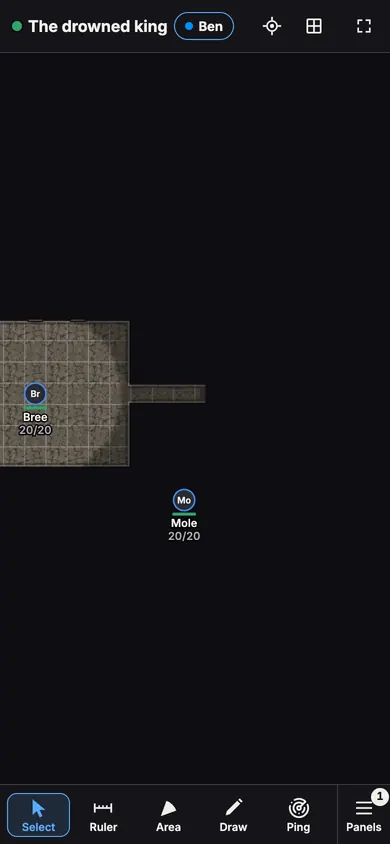
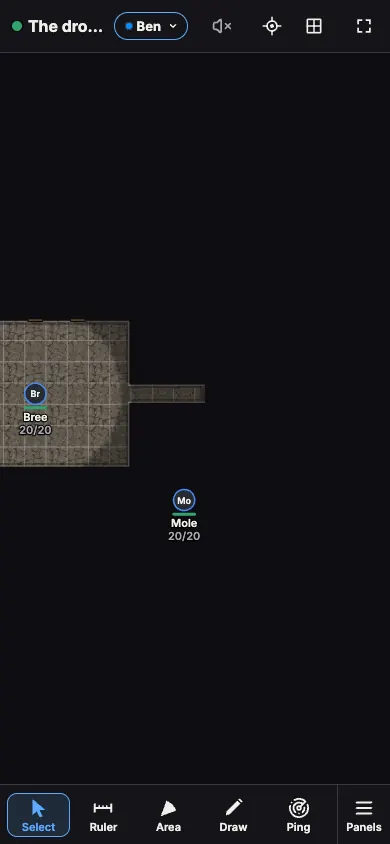
docs(guide): retake the forget question and player discovery pictures from a replay of their own

diff --git a/scripts/guide-discovery.ts b/scripts/guide-discovery.ts
@@ -1,0 +1,178 @@
+/**
+ * The DM guide's pictures of what players' maps hold (docs/dm-guide.md,
+ * "What players' maps hold", docs/design/design-v1-map-discovery.md),
+ * taken from the real server on the production build so they always show
+ * the app as it is:
+ *
+ * - discovery-player.webp: Ben's phone in the Sunken halls, with Bree's
+ *   torch lighting the hall and the start of the corridor, which runs on into
+ *   the dark with no wall across it, and a treasury his map does not hold.
+ * - forget-question.webp: the DM's question before clearing the Great
+ *   cavern's build, which the party has seen and left, would run past what
+ *   their map can keep.
+ *
+ * The room is e2e/mapdiscovery.e2e.ts's, cut down to what the two pictures
+ * need. It needs `pnpm build` first and a Postgres in DATABASE_URL. It makes a
+ * room, writes the pictures to docs/dm-guide/ at 1280 x 800 for the computer
+ * and 390 x 844 for the phone, as the guide's other pictures are, and
+ * deletes the room:
+ *
+ *   DATABASE_URL=postgres://... GUIDE_PORT=3196 node scripts/guide-discovery.ts
+ *
+ * GUIDE_COPY_DIR, when set, also gets each picture as guide-<name>.png, which
+ * it never overwrites, for looking at the pictures at full quality.
+ */
+import { mkdirSync, mkdtempSync, rmSync, writeFileSync } from "node:fs";
+import { tmpdir } from "node:os";
+import path from "node:path";
+import { chromium, type BrowserContext, type Page } from "playwright-core";
+import sharp from "sharp";
+import { knownAt } from "../shared/discoveryTestutil.ts";
+import { CHUNK_CELLS, type EdgeFeature, type PlayerChunk, type RoomState } from "../shared/model.ts";
+import { isCellFullyFogged } from "../shared/rules/fog.ts";
+import { uuidv7 } from "../shared/ids.ts";
+import { OpSocket, openSideTab, pagePoint, pickTool, ROOT, SocketWatch, sleep, startServer, waitFor } from "../e2e/harness.ts";
+
+const PORT = Number(process.env.GUIDE_PORT ?? 3196);
+const DATABASE_URL = process.env.DATABASE_URL ?? "postgres://raccoon:raccoon@localhost:5434/raccoon";
+const OUT = path.join(ROOT, "docs", "dm-guide");
+const DESK = { width: 1280, height: 800 };
+const PHONE = { width: 390, height: 844 };
+const COPY_DIR = process.env.GUIDE_COPY_DIR;
+
+const HALLS = {
+  bounds: { w: 24, h: 12 },
+  hall: { x: 0, y: 1, w: 7, h: 7 },
+  corridor: { x: 7, y: 4, w: 17, h: 1 },
+  treasury: { x: 14, y: 7, w: 7, h: 4 },
+  breeAt: { x: 2, y: 4 },
+  moleAt: { x: 9, y: 9 },
+};
+const CAVERN = { bounds: { w: 80, h: 64 }, breeAt: { x: 40, y: 32 } };
+const TORCH = { bright: 20, dim: 20 };
+const roomName = "The drowned king";
+
+function actor() {
+  return { hp: { cur: 20, max: 20, temp: 0 }, life: "alive", ac: 14, speeds: { walk: 30 }, initBonus: 0, passivePerception: 10, senses: "", effects: [], deathSaves: { ok: 0, fail: 0 }, notes: "", dmNotes: "" };
+}
+
+/** The page as the guide shows it, at the quality its other pictures use. */
+async function picture(page: Page, name: string): Promise<void> {
+  await page.waitForTimeout(1000);
+  const png = await page.screenshot();
+  const info = await sharp(png).webp({ quality: 78, effort: 6 }).toFile(path.join(OUT, `${name}.webp`));
+  console.log(`${name}.webp ${info.width} x ${info.height}, ${Math.round(info.size / 1024)} KB`);
+  if (COPY_DIR !== undefined) {
+    mkdirSync(COPY_DIR, { recursive: true });
+    writeFileSync(path.join(COPY_DIR, `guide-${name}.png`), png, { flag: "wx" });
+  }
+}
+
+function chunkOf(state: RoomState | null, sceneId: string, x: number, y: number): PlayerChunk | undefined {
+  return state?.buildChunks[`${sceneId}:${Math.floor(x / CHUNK_CELLS)},${Math.floor(y / CHUNK_CELLS)}`] as PlayerChunk | undefined;
+}
+
+const work = mkdtempSync(path.join(tmpdir(), "raccoon-guide-discovery-"));
+const server = await startServer({ port: PORT, assetDir: path.join(work, "assets"), databaseUrl: DATABASE_URL });
+const browser = await chromium.launch({ channel: "chrome", headless: true });
+let roomId = "";
+let ops: OpSocket | null = null;
+const dmContext: BrowserContext = await browser.newContext({ viewport: DESK });
+const benContext: BrowserContext = await browser.newContext({ viewport: PHONE, deviceScaleFactor: 1, isMobile: true, hasTouch: true });
+try {
+  const origin = server.origin;
+  const dm = await dmContext.newPage();
+  const ben = await benContext.newPage();
+  const dmSocket = new SocketWatch("dm");
+  const benSocket = new SocketWatch("ben");
+  await dmSocket.attach(dmContext, dm);
+  await benSocket.attach(benContext, ben);
+  await dm.goto(`${origin}/`);
+  await dm.getByLabel("Room name").fill(roomName);
+  await dm.getByLabel("Your name").fill("Dana the DM");
+  const password = await dm.getByLabel("Player password").inputValue();
+  await dm.getByRole("button", { name: "Create room" }).click();
+  await dm.getByRole("heading", { name: "Save your DM link" }).waitFor();
+  const link = (await dm.locator("code").first().textContent()) ?? "";
+  roomId = /\/r\/([0-9A-Z]{4}-[0-9A-Z]{4})#dm=/.exec(link)![1]!.replace("-", "");
+  await dm.getByLabel("I saved my DM link").check();
+  await dm.getByRole("button", { name: "Continue to the room" }).click();
+  await waitFor("the DM's snapshot", () => dmSocket.state);
+  const halls = dmSocket.state!.meta.playerSceneId!;
+  const cavern = uuidv7();
+  const cookie = (await dmContext.cookies(origin)).map((c) => `${c.name}=${c.value}`).join("; ");
+  ops = await OpSocket.open({ origin, roomId, cookie });
+
+  // The Sunken halls: a hall, a corridor east into the dark, and a treasury south of it that no light of the party's reaches.
+  await ops.send({ t: "scene.update", sceneId: halls, patch: { name: "Sunken halls", bounds: HALLS.bounds, fogEnabled: true, autoWalls: "all", blockMovement: true, vision: { on: true, light: "dark" } } });
+  await ops.send({ t: "build.rect", sceneId: halls, terrain: "stone", ...HALLS.hall });
+  await ops.send({ t: "build.rect", sceneId: halls, terrain: "stone", ...HALLS.corridor });
+  await ops.send({ t: "build.rect", sceneId: halls, terrain: "wood", ...HALLS.treasury });
+  const door: EdgeFeature = { kind: "door", state: "closed", secret: false, discovered: false };
+  await ops.send({ t: "build.edge", sceneId: halls, edges: ["2,1,n", "4,1,n"].map((key) => ({ key, feature: door })) });
+  // The Great cavern: bright and floored in stone wall to wall, so clearing it out of the party's sight runs past what their map keeps.
+  await ops.send({ t: "scene.create", scene: { id: cavern, name: "Great cavern", bounds: CAVERN.bounds, fogEnabled: true, autoWalls: "all", blockMovement: true, vision: { on: true, light: "bright" } } });
+  for (let y = 0; y < CAVERN.bounds.h; y += 16) await ops.send({ t: "build.rect", sceneId: cavern, terrain: "stone", x: 0, y, w: CAVERN.bounds.w, h: 16 });
+
+  const headers = { Origin: origin, "content-type": "application/json" };
+  const joined = await benContext.request.post(`${origin}/api/rooms/${roomId}/join`, { headers, data: { password } });
+  const { ticket } = (await joined.json()) as { ticket: string };
+  const done = await benContext.request.post(`${origin}/api/rooms/${roomId}/join/complete`, { headers, data: { ticket, name: "Ben", color: "#0090ff" } });
+  const benId = ((await done.json()) as { member: { id: string } }).member.id;
+  const pc = (id: string, sceneId: string, name: string, at: { x: number; y: number }, dark = false) => ({
+    t: "token.create" as const,
+    token: { id, sceneId, kind: "pc" as const, disposition: "ally" as const, name, size: "medium" as const, ...at, visibility: "all" as const, ownerIds: [benId], actor: { inline: actor() }, ...(dark ? {} : { light: TORCH }) },
+  });
+  const breeHalls = uuidv7();
+  const breeCavern = uuidv7();
+  await ops.send(pc(breeHalls, halls, "Bree", HALLS.breeAt));
+  await ops.send(pc(uuidv7(), halls, "Mole", HALLS.moleAt, true));
+  await ops.send(pc(breeCavern, cavern, "Bree", CAVERN.breeAt));
+  await ben.goto(`${origin}/r/${roomId}`);
+  await ben.getByRole("status", { name: "Connected" }).first().waitFor();
+  await waitFor("Ben's snapshot", () => benSocket.state);
+  await ben.locator(".konvajs-content").first().waitFor();
+
+  // Shot 1: Ben's phone in the halls, closer in than the whole scene, as the e2e file takes it.
+  await waitFor("the hall and its corridor on Ben's map", () => (knownAt(chunkOf(benSocket.state, halls, 8, 4), 8, 4) && chunkOf(benSocket.state, halls, 2, 4)?.cells["2,4"] === "stone" ? true : null));
+  const middle = await pagePoint(ben, HALLS.bounds, { x: 6, y: 5 });
+  await ben.mouse.move(middle.x, middle.y);
+  await ben.mouse.wheel(0, -400);
+  await ben.waitForTimeout(600);
+  await picture(ben, "discovery-player");
+  await ben.mouse.wheel(0, 400);
+  await ben.waitForTimeout(400);
+
+  // Shot 2: the party sees the whole cavern and leaves it, and the DM's Clear build there asks first.
+  const playersTo = async (sceneId: string) => {
+    await ops!.send({ t: "room.setPlayerScene", sceneId });
+    await waitFor("the players on the scene", () => (benSocket.state?.meta.playerSceneId === sceneId ? true : null));
+  };
+  await playersTo(cavern);
+  await waitFor("the cavern explored on Ben's map", () => (benSocket.state && !isCellFullyFogged(benSocket.state.fogTiles, cavern, { x: CAVERN.bounds.w - 1, y: CAVERN.bounds.h - 1 }) ? true : null));
+  await playersTo(halls);
+  await openSideTab(dm, "Scenes");
+  await dm.getByRole("button", { name: /^Great cavern/ }).click();
+  await waitFor("the DM on the cavern", () => (dmSocket.you?.sceneId === cavern ? true : null), 30_000);
+  await dm.locator(".konvajs-content").first().waitFor();
+  await waitFor("the cavern's explored tiles in the DM's copy", () => (Object.keys(dmSocket.state?.exploredTiles ?? {}).some((k) => k.startsWith(`${cavern}:`)) ? true : null));
+  await pickTool(dm, "Map builder");
+  await dm.getByRole("toolbar", { name: "Map builder options" }).getByRole("button", { name: "More options" }).click();
+  const more = dm.getByRole("dialog", { name: "More Map builder options" });
+  await more.getByRole("button", { name: "Clear build", exact: true }).click();
+  await more.getByRole("button", { name: "Tap again to clear" }).click();
+  if (await more.isVisible()) await dm.keyboard.press("Escape");
+  await dm.getByRole("dialog", { name: "Remembered map" }).waitFor();
+  await sleep(500);
+  await picture(dm, "forget-question");
+  await dm.getByRole("dialog", { name: "Remembered map" }).getByRole("button", { name: "Cancel" }).click();
+} finally {
+  ops?.close();
+  if (roomId) {
+    const res = await dmContext.request.delete(`${server.origin}/api/rooms/${roomId}`, { headers: { Origin: server.origin }, data: { name: roomName } }).catch(() => null);
+    if (res && !res.ok()) console.error(`Deleting room ${roomId} answered ${res.status()}`);
+  }
+  await browser.close();
+  await server.stop();
+  rmSync(work, { recursive: true, force: true });
+}
